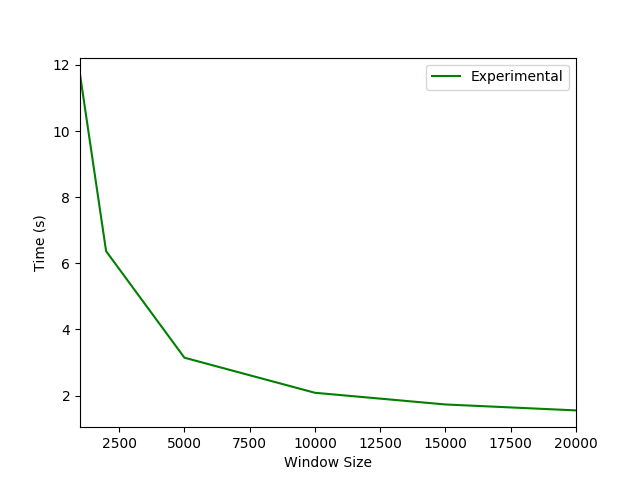
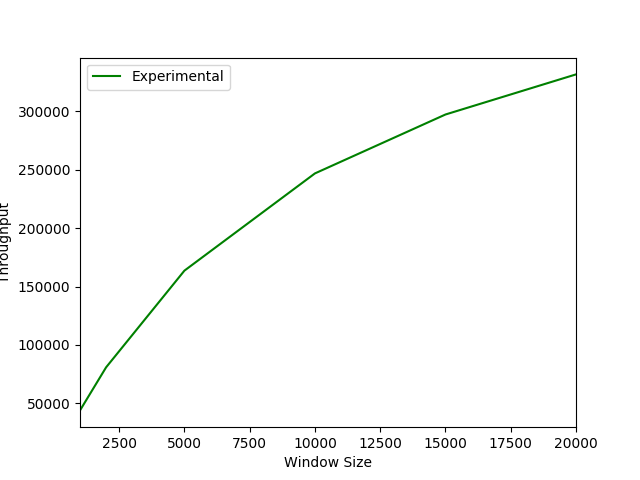
Real graph

diff --git a/lab2/mytests.py b/lab2/mytests.py
@@ -39,28 +39,28 @@ def main():
 
     #Experiments
 
+    file_size = os.path.getsize("internet-architecture.pdf")
+
     data = []
     time = tester.run(1000, 0, "internet-architecture.pdf", False)
-    data.append((1000, time))
+    data.append((1000, file_size/time))
     time = tester.run(2000, 0, "internet-architecture.pdf", False)
-    data.append((2000, time))
+    data.append((2000, file_size/time))
     time = tester.run(5000, 0, "internet-architecture.pdf", False)
-    data.append((5000, time))
+    data.append((5000, file_size/time))
     time = tester.run(10000, 0, "internet-architecture.pdf", False)
-    data.append((10000, time))
+    data.append((10000, file_size/time))
     time = tester.run(15000, 0, "internet-architecture.pdf", False)
-    data.append((15000, time))
+    data.append((15000, file_size/time))
     time = tester.run(20000, 0, "internet-architecture.pdf", False)
-    data.append((20000, time))
+    data.append((20000, file_size/time))
 
-
-
-    df = pd.DataFrame(data = data, columns=['Window Size', 'Time']).sort_values(by=['Window Size', 'Time'], ascending=[True, True])
+    df = pd.DataFrame(data = data, columns=['Window Size', 'Throughput']).sort_values(by=['Window Size', 'Throughput'], ascending=[True, True])
     plt.figure()
 
-    ax = df.plot(x="Window Size",y="Time", color="green", label="Experimental")
+    ax = df.plot(x="Window Size",y="Throughput", color="green", label="Experimental")
 
-    ax.set_ylabel("Time (s)")
+    ax.set_ylabel("Throughput")
     ax.set_xlabel("Window Size")
     fig = ax.get_figure()
     fig.savefig('window_size.png')
